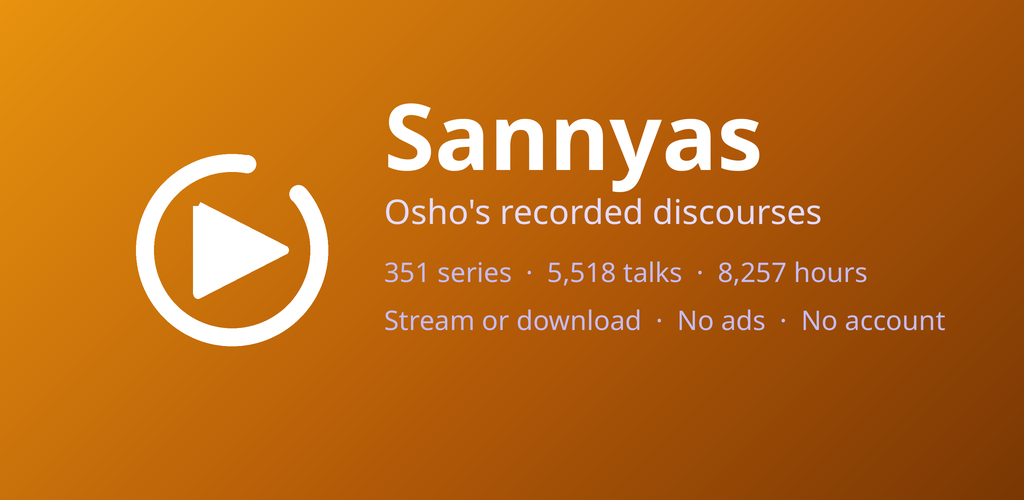
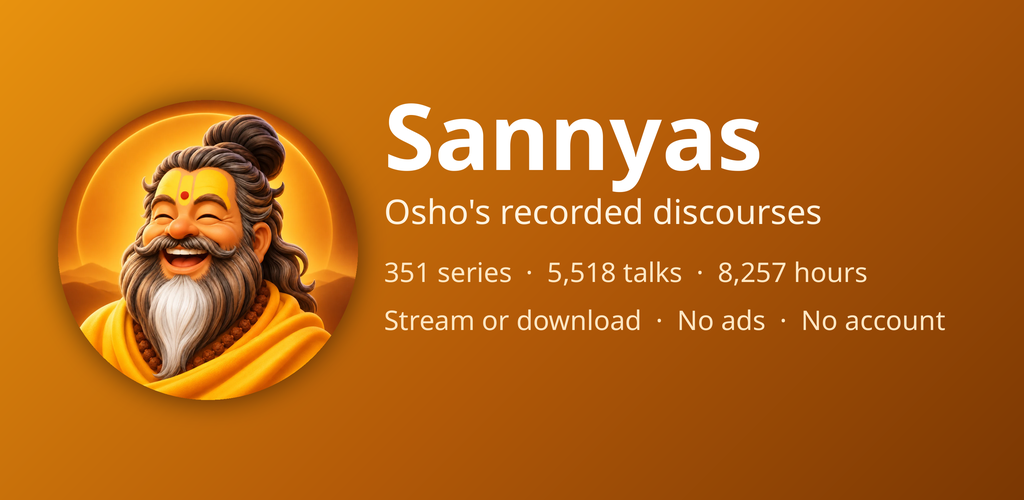
Use the launcher artwork as the feature graphic mark
The banner still drew the enso while the app icon beside it on the listing
was the illustrated sage — two marks for one app. It now shows the same
artwork, on a shadowed disc so its edge does not dissolve into the banner's
own saffron.

Supporting type was tinted lavender, mixed for the violet background it no
longer has; warmed to cream. Dropped the now-unused re import left over
from parsing the icon vector.

diff --git a/branding/render_feature_graphic.py b/branding/render_feature_graphic.py
@@ -2,22 +2,20 @@
 """
 Renders the 1024x500 Play Console feature graphic.
 
-Reads the gradient stops out of the real launcher background vector and redraws
-the launcher mark, so the store banner cannot drift from the icon the way a
-hand-made asset would. Catalog figures are counted from discourses.json for the
-same reason — quoting a number the app does not actually ship is the kind of
-thing store reviewers check.
+Shows the launcher artwork itself, so the banner and the app icon beside it on
+the listing are the same mark. Catalog figures are counted from discourses.json
+rather than typed in — quoting a number the app does not actually ship is the
+kind of thing store reviewers check.
 
 Play crops this asset on some surfaces and overlays a play button on others, so
 nothing load-bearing sits in the outer eighth or dead centre.
 
-Drawn at 3x and downsampled: Pillow has no round line caps, so the enso's ends
-are stamped as circles, and that seam only disappears with supersampling.
+Drawn at 3x and downsampled, which keeps the type crisp and the disc's edge
+smooth at the final size.
 """
 import json
-import re
 from pathlib import Path
-from PIL import Image, ImageDraw, ImageFont
+from PIL import Image, ImageDraw, ImageFilter, ImageFont
 
 ROOT = Path(__file__).resolve().parent.parent
 OUT = ROOT / "branding/play-feature-graphic-1024x500.png"
@@ -68,28 +66,29 @@ for i in range(diag):
         col = stops[-1][1]
     d.line([(i, 0), (0, i)], fill=col, width=2)
 
-# --- the mark: open enso + play triangle, mirroring ic_launcher_foreground ----
-cx, cy, r, sw = 232 * S, 250 * S, 96 * S, 18 * S
-# Gap spans 40deg..80deg, matching the vector. Pillow measures clockwise from
-# 3 o'clock with y growing downward, so the vector's angles negate.
-d.arc([cx - r, cy - r, cx + r, cy + r], start=-40, end=-80 + 360, fill="white", width=sw)
-# Pillow strokes an arc *inward* from the bounding box, so the drawn band runs
-# from r-sw to r and its centreline sits at r-sw/2. Stamping the round caps at r
-# instead leaves them hanging off the end with a notch on the inner edge.
-cap_r = r - sw / 2
-for ang in (-40, -80):
-    import math
-    ex = cx + cap_r * math.cos(math.radians(ang))
-    ey = cy + cap_r * math.sin(math.radians(ang))
-    d.ellipse([ex - sw / 2, ey - sw / 2, ex + sw / 2, ey + sw / 2], fill="white")
+# --- the mark: the launcher artwork itself ------------------------------------
+# This used to redraw the enso so the banner tracked the icon. The launcher is
+# illustrated artwork now, so the banner shows that artwork instead — two
+# different marks on one listing page reads as two different apps.
+mark_d = 300 * S
+cx, cy = 208 * S, 250 * S
+half = mark_d // 2
 
-tri = [(cx - 34 * S, cy - 44 * S), (cx + 52 * S, cy), (cx - 34 * S, cy + 44 * S)]
-d.polygon(tri, fill="white")
-# The vector softens these corners with a stroke line join. Stamping circles on
-# the vertices does not reproduce that — a circle centred on a sharp point juts
-# out past both edges and reads as a knob. Stroking the perimeter with a round
-# joint is what the vector actually does.
-d.line(tri + [tri[0]], fill="white", width=10 * S, joint="curve")
+# A soft shadow under the disc. The artwork's own background is a saffron close
+# to the banner's, so without one the circle's edge dissolves and the mark
+# looks like a stain rather than a badge.
+shadow = Image.new("RGBA", img.size, (0, 0, 0, 0))
+ImageDraw.Draw(shadow).ellipse([cx - half, cy - half, cx + half, cy + half],
+                               fill=(54, 18, 0, 165))
+shadow = shadow.filter(ImageFilter.GaussianBlur(13 * S))
+img = Image.alpha_composite(img.convert("RGBA"), shadow).convert("RGB")
+d = ImageDraw.Draw(img)
+
+art = Image.open(ROOT / "branding/icon-source.png").convert("RGB")
+art = art.resize((mark_d, mark_d), Image.LANCZOS)
+disc = Image.new("L", (mark_d, mark_d), 0)
+ImageDraw.Draw(disc).ellipse([0, 0, mark_d - 1, mark_d - 1], fill=255)
+img.paste(art, (cx - half, cy - half), disc)
 
 # --- type ---------------------------------------------------------------------
 name = ImageFont.truetype(FONT_BOLD, 92 * S)
@@ -99,11 +98,11 @@ stat = ImageFont.truetype(FONT_REG, 27 * S)
 x = 384 * S
 d.text((x, 170 * S), "Sannyas", font=name, fill="white", anchor="ls")
 d.text((x, 224 * S), "Osho's recorded discourses", font=lede,
-       fill=(226, 220, 255), anchor="ls")
+       fill=(255, 243, 224), anchor="ls")
 d.text((x, 282 * S), f"{series} series  ·  {talks:,} talks  ·  {hours:,} hours",
-       font=stat, fill=(198, 188, 240), anchor="ls")
+       font=stat, fill=(255, 231, 196), anchor="ls")
 d.text((x, 330 * S), "Stream or download  ·  No ads  ·  No account",
-       font=stat, fill=(198, 188, 240), anchor="ls")
+       font=stat, fill=(255, 231, 196), anchor="ls")
 
 img.resize((W, H), Image.LANCZOS).save(OUT)
 print(f"wrote {OUT.relative_to(ROOT)} — {series} series, {talks} talks, {hours} hours")
